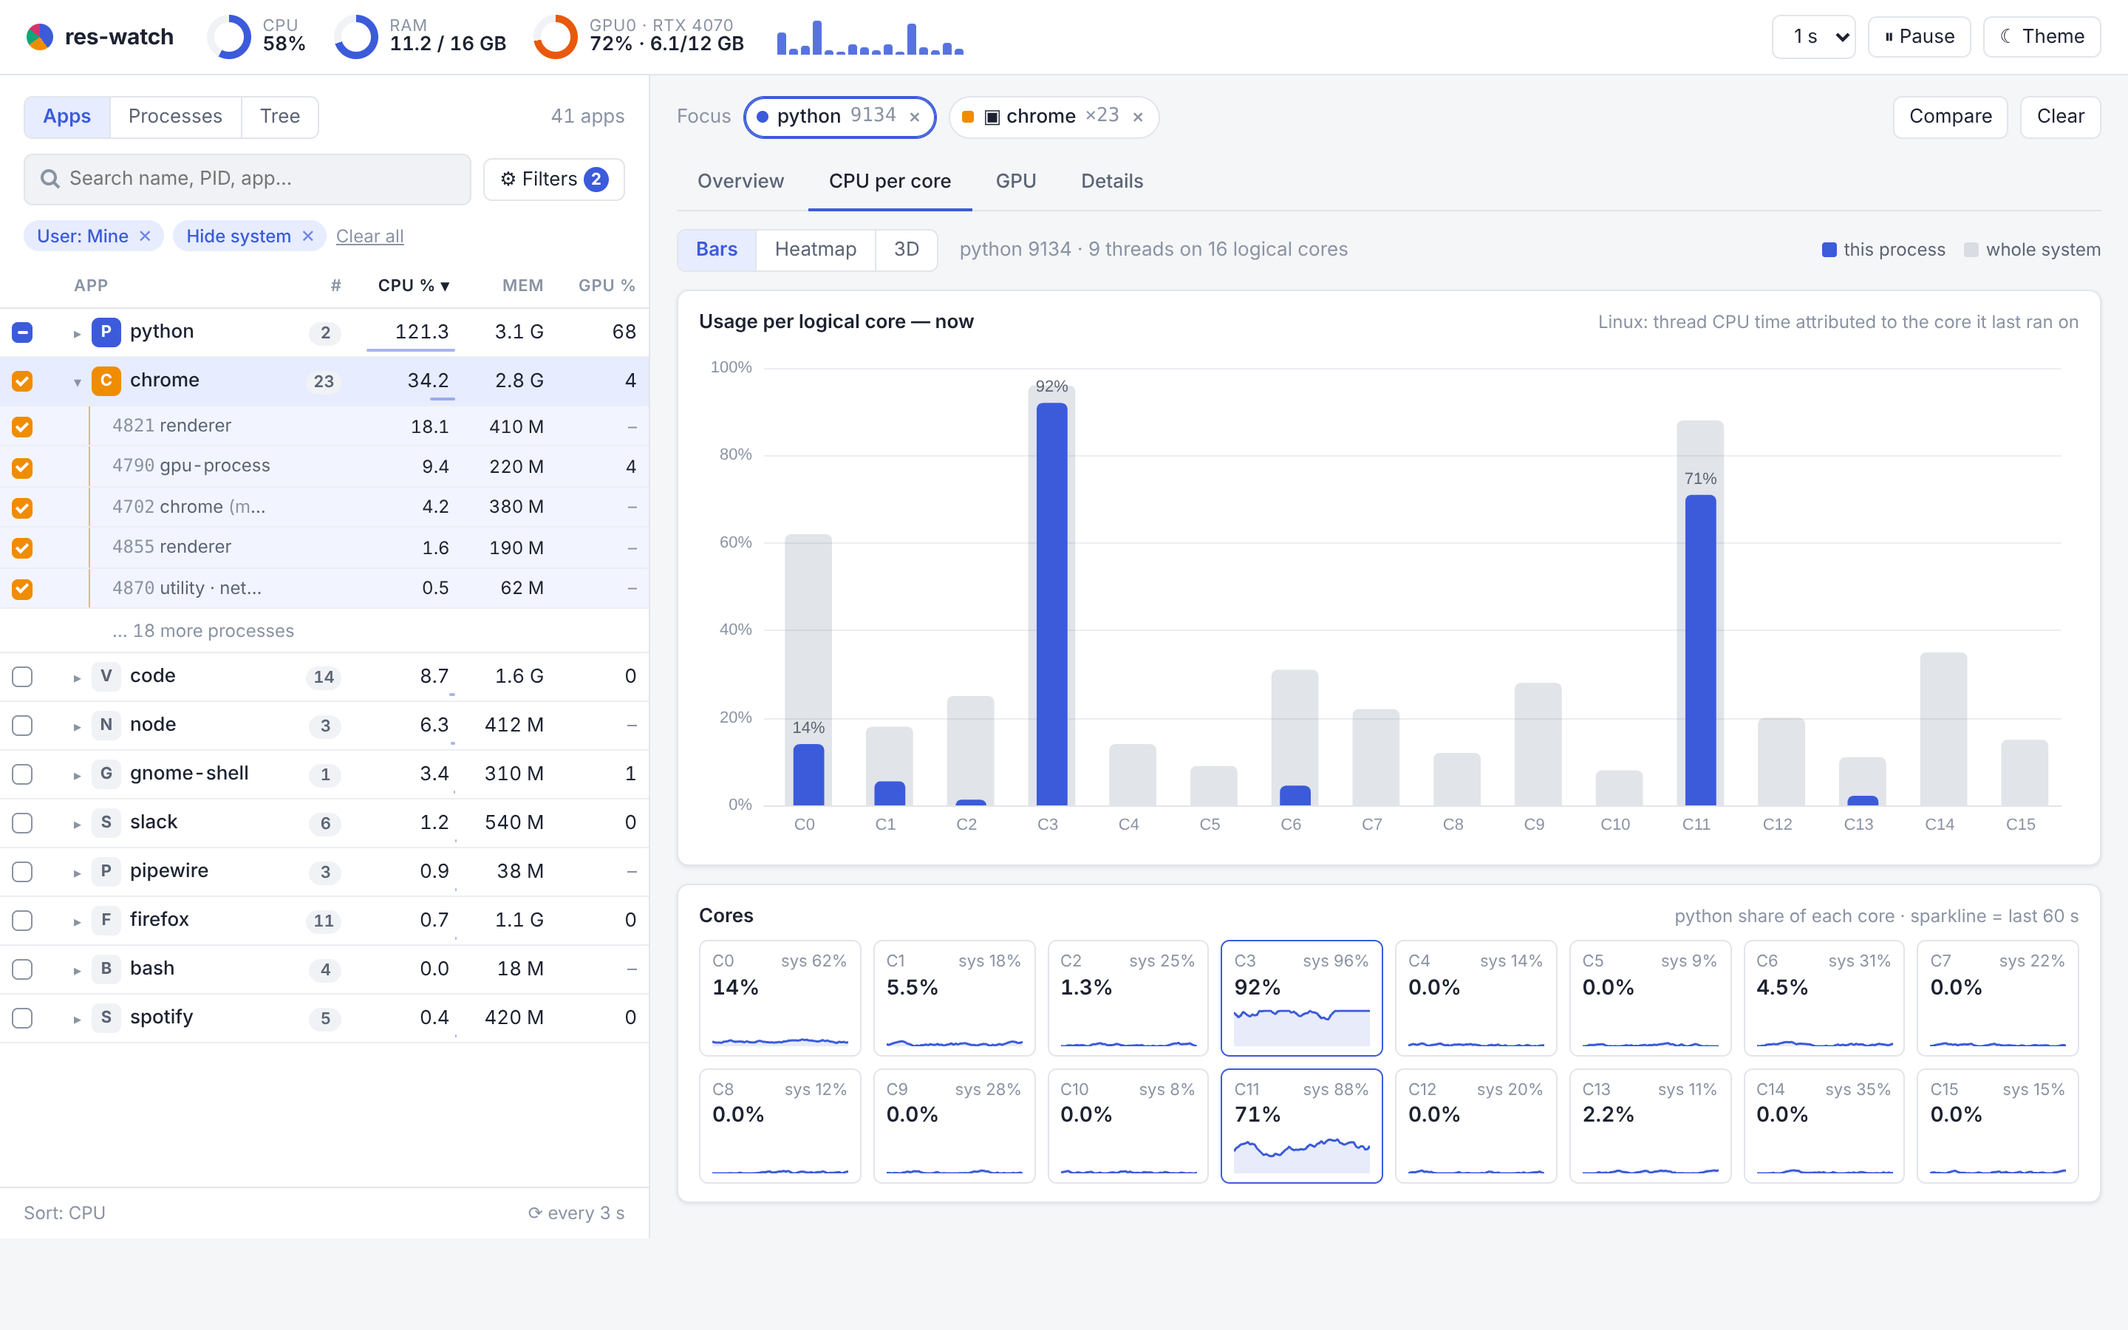
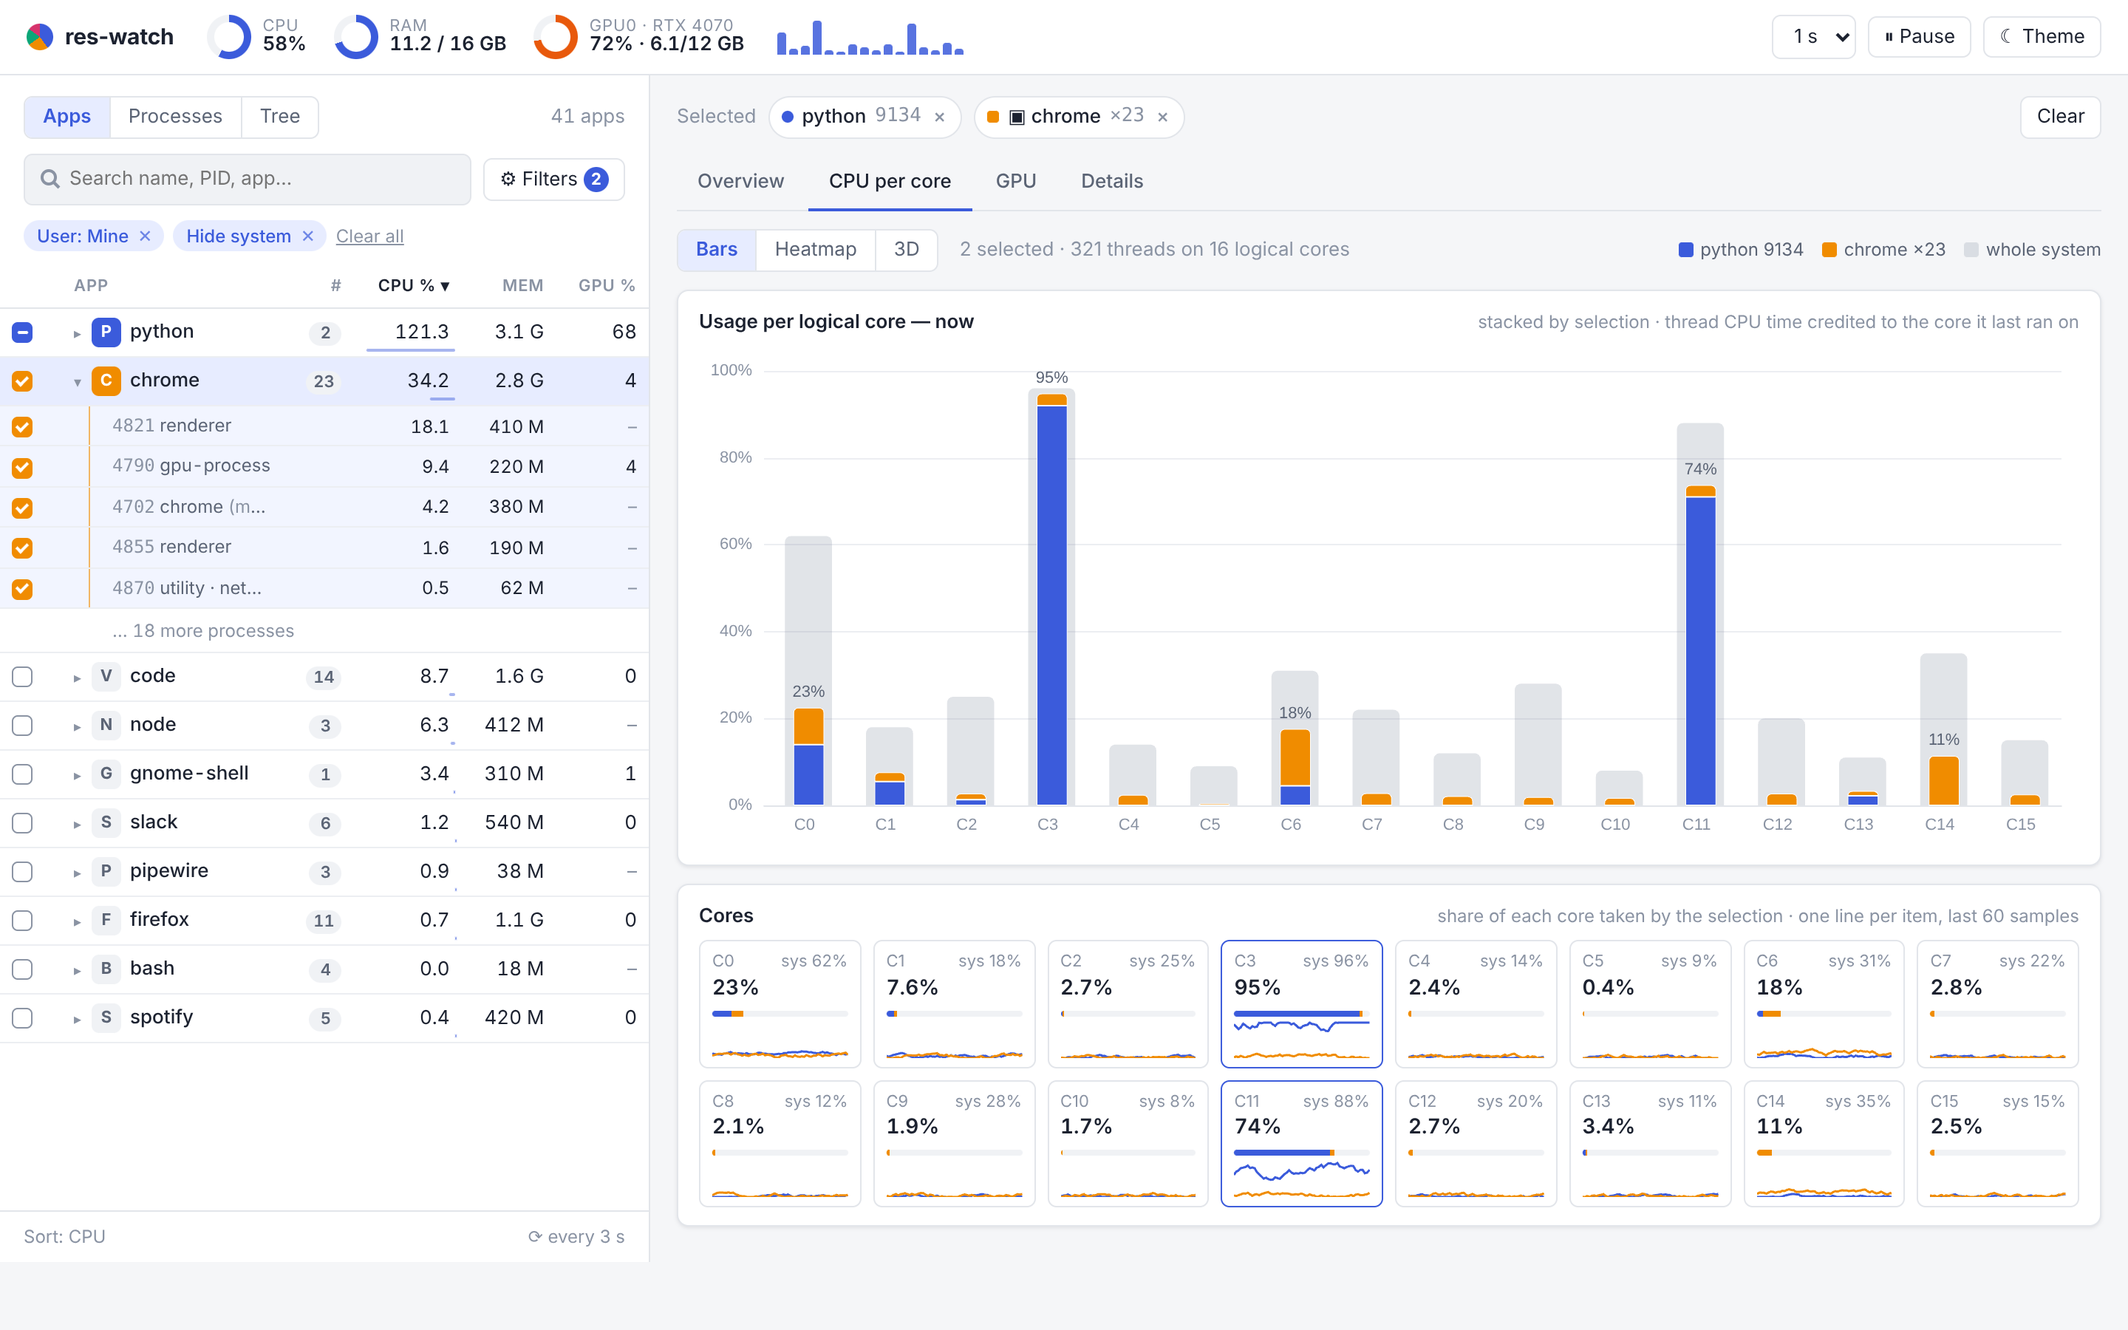
Refresh design images; real screenshots in the README
Roadmap 3.4.
- design/mockup.html matches the current UI: 'Selected' bar (no focus or
  Compare), and the CPU tab draws every selection with the app's own
  chart builders (static/charts.js), so the mockup can't drift from the app.
- design/render.js (in the repo now) rebuilds design/ref-*.png.
- docs/screenshots/: real screenshots of the running app (overview with
  two processes and the python app, CPU per core stacked by selection,
  3D, app details, filters with Group by). The README uses them instead of
  the mockup and lists the new features (Group by, history, 3D camera).
- docs/ROADMAP.md: progress note at the top.

Claude-Session: https://claude.ai/code/session_01Mejdtr6aMS1RcSrQ4847xx

diff --git a/design/mockup.html b/design/mockup.html
@@ -7,6 +7,7 @@
 <link rel="stylesheet" href="../static/style.css">
 <script src="../static/vendor/echarts.min.js"></script>
 <script src="../static/vendor/echarts-gl.min.js"></script>
+<script src="../static/charts.js"></script>
 </head>
 <body>
 <!--
@@ -92,7 +93,6 @@ const chromeApp = {kind: 'app', key: 'chrome', name: 'chrome', pid: '×23', coun
 const selected = EMPTY ? [] : [procs[0], chromeApp];
 selected.forEach((p, i) => p.color = C.s[i]);
 const focus = selected[0];
-const focusIdx = TAB === 'details' ? 1 : 0;
 
 // apps (grouped by cgroup scope / exe tree) — "Mine" filter active, so root/system apps are hidden
 const apps = [
@@ -230,10 +230,10 @@ const lineOpt = (series, {unit = '', max} = {}) => ({
 
 function focusBar() {
   return `<div class="focusbar">
-    <span class="faint">Focus</span>
-    ${selected.map((p, i) => `<span class="chip ${i === focusIdx ? 'active' : ''}" style="--c:${p.color}"><span class="dot ${p.kind === 'app' ? 'sq' : ''}"></span>${p.kind === 'app' ? '▣ ' : ''}${p.name} <span class="faint mono">${p.pid}</span><span class="x">×</span></span>`).join('')}
+    <span class="faint">Selected</span>
+    ${selected.map((p, i) => `<span class="chip" style="--c:${p.color}"><span class="dot ${p.kind === 'app' ? 'sq' : ''}"></span>${p.kind === 'app' ? '▣ ' : ''}${p.name} <span class="faint mono">${p.pid}</span><span class="x">×</span></span>`).join('')}
     <span class="spacer" style="flex:1"></span>
-    <button class="btn">Compare</button><button class="btn">Clear</button>
+    <button class="btn">Clear</button>
   </div>
   <div class="tabs">
     ${[['overview','Overview'],['cpu','CPU per core'],['gpu','GPU'],['details','Details']].map(([k, l]) => `<button class="tab ${k === TAB ? 'active' : ''}">${l}</button>`).join('')}
@@ -280,70 +280,40 @@ if (EMPTY) {
                       {name: 'chrome read', data: walk(60, 80, 0, 300), color: selected[1].color},
                       {name: 'chrome write', data: walk(30, 40, 0, 150), color: selected[1].color, lineStyle: {width: 2, type: 'dashed'}}]));
 } else if (TAB === 'cpu') {
+  // Same builders as the app (static/charts.js), fed with sample data for both selections.
+  const R = window.RWCharts, CC = R.colors();
+  const chromeHist = Array.from({length: CORES}, (_, c) => walk(procCoreNow[4821][c], 8, 0, 40));
+  const ents = selected.map(p => p.kind === 'app'
+    ? {name: 'chrome ×23', color: p.color, now: procCoreNow[4821], hist: chromeHist}
+    : {name: `${p.name} ${p.pid}`, color: p.color, now: procCoreNow[9134], hist: coreHist});
+  const times = Array.from({length: N}, (_, i) => i);
+  const lg = items => `<div class="legend">${items.map(([l, c, cls]) => `<span><i class="${cls || ''}" style="--c:${c}"></i>${l}</span>`).join('')}</div>`;
   main.innerHTML = focusBar() + `
     <div class="toolbar">
       <div class="seg">${[['bars','Bars'],['heatmap','Heatmap'],['3d','3D']].map(([k, l]) => `<button class="${k === VIEW ? 'on' : ''}">${l}</button>`).join('')}</div>
-      <span class="faint">${focus.name} ${focus.pid} · 9 threads on 16 logical cores</span>
+      <span class="faint">2 selected · 321 threads on 16 logical cores</span>
       <span class="spacer" style="flex:1"></span>
-      ${VIEW === 'bars' ? legend([['this process', focus.color], ['whole system', '', 'ghost']])
-        : `<span class="ramp">0% <b></b> 100%</span>`}
+      ${VIEW === 'heatmap' ? '<span class="ramp">0% <b></b> 100%</span>' : lg([...ents.map(e => [e.name, e.color]), ...(VIEW === 'bars' ? [['whole system', '', 'ghost']] : [])])}
       ${VIEW === '3d' ? '<button class="btn">⟲ Auto-rotate</button><button class="btn">Reset view</button>' : ''}
     </div>
-    <div class="card">
-      <div class="card-h"><h3>${VIEW === 'bars' ? 'Usage per logical core — now' : VIEW === 'heatmap' ? 'Usage per core over the last 60 s' : '3D · core × time × usage'}</h3>
-        <span class="sub">${VIEW === '3d' ? 'drag to rotate · scroll to zoom' : 'Linux: thread CPU time attributed to the core it last ran on'}</span></div>
-      <div class="chart ${VIEW === '3d' ? 'xl' : 'tall'}" id="c-main"></div>
-    </div>
-    <div class="card"><div class="card-h"><h3>Cores</h3><span class="sub">${focus.name} share of each core · sparkline = last 60 s</span></div>
+    ${VIEW === 'heatmap'
+      ? ents.map((e, i) => `<div class="card"><div class="card-h"><h3><span style="color:${e.color}">${i ? '■' : '●'}</span> ${e.name}</h3><span class="sub">usage per core over the last 60 samples</span></div><div class="chart" id="c-heat${i}" style="height:290px"></div></div>`).join('')
+      : `<div class="card"><div class="card-h"><h3>${VIEW === 'bars' ? 'Usage per logical core — now' : '3D · core × time × usage'}</h3>
+          <span class="sub">${VIEW === '3d' ? 'stacked by selection · drag to rotate · scroll to zoom' : 'stacked by selection · thread CPU time credited to the core it last ran on'}</span></div>
+          <div class="chart ${VIEW === '3d' ? 'xl' : 'tall'}" id="c-main"></div></div>`}
+    <div class="card"><div class="card-h"><h3>Cores</h3><span class="sub">share of each core taken by the selection · one line per item, last 60 samples</span></div>
       <div class="cores" id="cores"></div></div>`;
-  const cats = sysCores.map((_, i) => 'C' + i);
-  if (VIEW === 'bars') {
-    mk('c-main', {
-      animation: false, grid: {left: 44, right: 12, top: 16, bottom: 28}, tooltip: {...tip, axisPointer: {type: 'shadow'}},
-      xAxis: {type: 'category', data: cats, ...baseAxis, splitLine: {show: false}},
-      yAxis: {type: 'value', max: 100, ...baseAxis, axisLine: {show: false}, axisLabel: {...baseAxis.axisLabel, formatter: '{value}%'}},
-      series: [
-        {name: 'system', type: 'bar', data: sysCores, barWidth: '58%', itemStyle: {color: C.ghost, borderRadius: [4, 4, 0, 0]}, z: 1},
-        {name: focus.name, type: 'bar', data: procCoreNow[focus.pid].map(v => +v.toFixed(1)), barWidth: '38%', barGap: '-82%',
-         itemStyle: {color: focus.color, borderRadius: [4, 4, 0, 0]}, z: 2,
-         label: {show: true, position: 'top', color: C.text2, fontSize: 11, formatter: p => p.value >= 10 ? Math.round(p.value) + '%' : ''}},
-      ],
-    });
-  } else if (VIEW === 'heatmap') {
-    const data = [];
-    coreHist.forEach((row, c) => row.forEach((v, t) => data.push([t, c, +v.toFixed(1)])));
-    mk('c-main', {
-      animation: false, grid: {left: 44, right: 16, top: 8, bottom: 28},
-      tooltip: {backgroundColor: C.surface, borderColor: C.border, textStyle: {color: C.text}, formatter: p => `C${p.value[1]} · ${timeLabels[p.value[0]]}: <b>${p.value[2]}%</b>`},
-      xAxis: {type: 'category', data: timeLabels, ...baseAxis, splitLine: {show: false}, axisLabel: {...baseAxis.axisLabel, interval: 9}},
-      yAxis: {type: 'category', data: cats, inverse: true, ...baseAxis, splitLine: {show: false}},
-      visualMap: {show: false, min: 0, max: 100, inRange: {color: C.q}},
-      series: [{type: 'heatmap', data, itemStyle: {borderColor: C.surface, borderWidth: 1}}],
-    });
-  } else {
-    const data = [];
-    coreHist.forEach((row, c) => row.forEach((v, t) => { if (t % 2 === 1) data.push([c, (t - 1) / 2, +v.toFixed(1)]); }));
-    mk('c-main', {
-      tooltip: {}, visualMap: {show: false, min: 0, max: 100, inRange: {color: C.q.slice(1)}},
-      xAxis3D: {type: 'category', name: 'core', data: cats, axisLabel: {color: C.text3, interval: 1}, nameTextStyle: {color: C.text2}},
-      yAxis3D: {type: 'category', name: 'time', data: timeLabels.filter((_, t) => t % 2 === 1), axisLabel: {color: C.text3, interval: 9}, nameTextStyle: {color: C.text2}},
-      zAxis3D: {type: 'value', name: '%', max: 100, axisLabel: {color: C.text3}, nameTextStyle: {color: C.text2}},
-      grid3D: {boxWidth: 150, boxDepth: 110, boxHeight: 60,
-        axisLine: {lineStyle: {color: C.text3}}, splitLine: {lineStyle: {color: C.grid}}, axisPointer: {lineStyle: {color: C.text2}},
-        viewControl: {alpha: 22, beta: 38, distance: 195, autoRotate: false},
-        light: {main: {intensity: 1.15, shadow: true, alpha: 40, beta: 30}, ambient: {intensity: 0.35}}},
-      series: [{type: 'bar3D', data, shading: 'lambert', bevelSize: 0.2, itemStyle: {opacity: 1}}],
-    });
-  }
-  // core mini-cards
-  document.getElementById('cores').innerHTML = procCoreNow[focus.pid].map((v, i) => `
-    <div class="core ${v > 50 ? 'hot' : ''}" style="--c:${focus.color}"><div class="t"><span>C${i}</span><span>sys ${sysCores[i]}%</span></div>
-    <div class="v num">${v.toFixed(v < 10 ? 1 : 0)}%</div><div class="spark" id="sp${i}"></div></div>`).join('');
-  coreHist.forEach((row, i) => mk('sp' + i, {
-    animation: false, grid: {left: 0, right: 0, top: 2, bottom: 0},
-    xAxis: {type: 'category', show: false, data: timeLabels, boundaryGap: false}, yAxis: {type: 'value', show: false, max: 100},
-    series: [{type: 'line', data: row, showSymbol: false, lineStyle: {width: 1.5, color: focus.color}, areaStyle: {color: focus.color, opacity: 0.12}}],
-  }));
+  if (VIEW === 'bars') mk('c-main', R.coreBars(CC, sysCores, ents.map(e => ({name: e.name, color: e.color, values: e.now.map(v => +v.toFixed(1))}))));
+  else if (VIEW === 'heatmap') ents.forEach((e, i) => mk('c-heat' + i, R.heat(CC, times, e.hist)));
+  else mk('c-main', R.bars3d(CC, times, ents.map(e => ({name: e.name, color: e.color, rows: e.hist}))));
+  document.getElementById('cores').innerHTML = sysCores.map((sv, i) => {
+    const parts = ents.map(e => ({v: e.now[i], c: e.color}));
+    const tot = parts.reduce((t, x) => t + x.v, 0), lead = parts.reduce((a, x) => x.v > a.v ? x : a);
+    return `<div class="core ${tot > 50 ? 'hot' : ''}" style="--c:${lead.c}"><div class="t"><span>C${i}</span><span>sys ${sv}%</span></div>
+      <div class="v num">${tot.toFixed(tot < 10 ? 1 : 0)}%</div>
+      <div class="segbar">${parts.filter(x => x.v > 0).map(x => `<i style="width:${Math.min(100, x.v)}%;background:${x.c}"></i>`).join('')}</div>
+      <div class="spark">${R.sparkMulti(ents.map(e => ({values: e.hist[i], color: e.color})))}</div></div>`;
+  }).join('');
 } else if (TAB === 'gpu') {
   main.innerHTML = focusBar() + `
     <div class="toolbar"><div class="seg"><button class="${VIEW === '2d' ? 'on' : ''}">2D</button><button class="${VIEW === '3d' ? 'on' : ''}">3D</button></div>

diff --git a/design/render.js b/design/render.js
@@ -1,0 +1,44 @@
+/* Render the design reference images from design/mockup.html.
+ *   node design/render.js            (needs Playwright: npm i -D playwright, or the copy in tests/e2e)
+ * Writes design/ref-*.png. The mockup uses sample data; real screenshots of the running
+ * app live in docs/screenshots/ (see docs/screenshots/README.md).
+ */
+'use strict';
+const path = require('path');
+let chromium;
+try { ({ chromium } = require('playwright')); } catch (e) { ({ chromium } = require(path.join(__dirname, '../tests/e2e/node_modules/playwright'))); }
+
+const base = 'file://' + path.join(__dirname, 'mockup.html');
+const shots = [
+  ['ref-overview', '?tab=overview', 1440, 900],
+  ['ref-cpu-bars', '?tab=cpu&view=bars', 1440, 900],
+  ['ref-cpu-heatmap', '?tab=cpu&view=heatmap', 1440, 900],
+  ['ref-cpu-3d', '?tab=cpu&view=3d', 1440, 900],
+  ['ref-gpu', '?tab=gpu', 1440, 900],
+  ['ref-overview-dark', '?tab=overview&theme=dark', 1440, 900],
+  ['ref-mobile', '?tab=overview&mview=list', 390, 844],
+  ['ref-empty', '?empty=1', 1440, 900],
+  ['ref-apps', '?tab=overview&side=apps', 1440, 900],
+  ['ref-filters', '?tab=overview&side=apps&filters=1', 1440, 900],
+  ['ref-tree', '?tab=cpu&view=bars&side=tree', 1440, 900],
+  ['ref-app-details', '?tab=details&side=procs', 1440, 900],
+];
+
+(async () => {
+  const browser = await chromium.launch({ args: ['--use-gl=angle', '--use-angle=swiftshader', '--enable-unsafe-swiftshader', '--ignore-gpu-blocklist'] });
+  let failed = 0;
+  for (const [name, q, w, h] of shots) {
+    const page = await browser.newPage({ viewport: { width: w, height: h }, deviceScaleFactor: 2 });
+    const errs = [];
+    page.on('console', m => m.type() === 'error' && errs.push(m.text()));
+    page.on('pageerror', e => errs.push(String(e)));
+    await page.goto(base + q);
+    await page.waitForTimeout(name.includes('3d') ? 2500 : 800);
+    await page.screenshot({ path: path.join(__dirname, name + '.png'), fullPage: w < 500 });
+    console.log(name.padEnd(18), errs.length ? 'ERR ' + errs.join(' | ') : 'ok');
+    if (errs.length) failed++;
+    await page.close();
+  }
+  await browser.close();
+  process.exit(failed ? 1 : 0);
+})();

diff --git a/README.md b/README.md
@@ -2,15 +2,26 @@
 
 See what each **app or process** on a machine is using, live: CPU (including **per core**), GPU, memory and disk I/O, in 2D and 3D charts. The backend is Python (FastAPI + psutil) and the frontend is a web UI. It runs on your laptop or on a VPS.
 
-![Overview](design/ref-overview.png)
+![Overview: two processes and the python app selected](docs/screenshots/overview.png)
 
-- **Apps / Processes / Tree** sidebar. Processes are grouped into apps, for example all 23 Chrome processes become one `chrome` app. You can chart a whole app, a single process, or a mix of both.
+- **Apps / Processes / Tree** sidebar. Processes are grouped into apps, for example all 23 Chrome processes become one `chrome` app. You can chart a whole app, a single process, or a mix of both. **Group by** can also group by executable or by user.
 - **Filters:** mine/all/system users, hide kernel threads and system services, GPU users only, minimum CPU %, and process status. They are remembered in the browser.
+- **Charts start with history:** the server keeps the last minute for every process, so a newly selected item shows it straight away, and your selection comes back after a page reload.
 - **Everything you select is shown together:** tick several apps and/or processes and each one gets its own colour in every chart and its own section in Details.
-- **CPU per core:** bars stacked by selection over whole-system usage, one core × time heatmap per selection, and a rotatable 3D view stacked by selection. Per-process per-core usage is Linux only, see [Notes](#notes).
+- **CPU per core:** bars stacked by selection over whole-system usage, one core × time heatmap per selection, and a rotatable 3D view stacked by selection (it keeps your camera angle; hidden on phones narrower than 480px). Per-process per-core usage is Linux only, see [Notes](#notes).
 - **GPU:** utilisation, memory, temperature, power, and the SM, memory, encoder and decoder engines, plus GPU use per process. NVIDIA is supported via NVML; AMD support is best effort via `amdsmi`.
 - **Details:** for an app, CPU per member process and a memory treemap; for a process, its command line, user, threads and open files.
 - **Built-in login** for remote servers. It is off on localhost.
+
+## Screenshots
+
+These come from the running app on a small 4-core Linux machine with no GPU.
+
+| CPU per core, stacked by selection | One app in detail |
+|---|---|
+| ![CPU per core](docs/screenshots/cpu-per-core.png) | ![App details](docs/screenshots/app-details.png) |
+| **3D view (core × time × usage)** | **Filters and "Group by"** |
+| ![3D view](docs/screenshots/cpu-3d.png) | ![Filters](docs/screenshots/filters.png) |
 
 ## Quick start
 
@@ -154,6 +165,7 @@ What's left to do, and in what order, is in [`docs/ROADMAP.md`](docs/ROADMAP.md)
   - `main.py`: API and WebSocket
   - `setup_wizard.py` and `templates/`: the setup script
 - `static/`: frontend (ECharts 5.6 and ECharts-GL 2.0.9 are vendored in `static/vendor/`, so it works offline)
-- `design/`: the static mockup and the reference images
+- `design/`: the static mockup with sample data (16 cores, a GPU) and its reference images; rebuild them with `node design/render.js`
+- `docs/screenshots/`: real screenshots used in this README
 
 Licences for the vendored chart libraries are in `static/vendor/LICENSE-*` (Apache-2.0).

diff --git a/docs/ROADMAP.md b/docs/ROADMAP.md
@@ -1,5 +1,9 @@
 # res-watch roadmap: pending work
 
+> **Progress (on PR #2):**
+> - Done: 1.1 CI · 2.1 Group by · 2.2 no 3D on small phones · 3.1 history backfill · 3.2 keep the 3D camera · 3.4 design images and real screenshots
+> - Left: 1.2 manual hardware checks (owner) · 2.3 Windows product names · 3.3 fairer totals
+
 Status as of PR #1 (merged into `master`): the app, the setup wizard and the login are built and covered by 64 tests, but several things have only been tested on Linux in a cloud container without a GPU or a Docker registry. This file lists what is left, in the order we plan to do it. Each item says why it matters, how to do it, which files it touches and when it counts as done.
 
 The original design is in [`PLAN.md`](PLAN.md).
